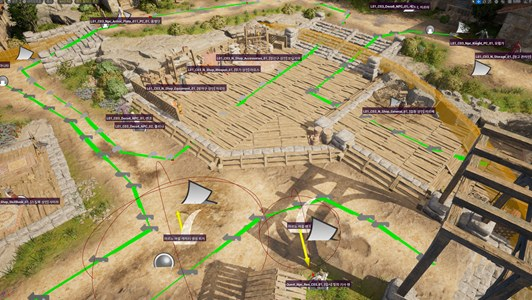
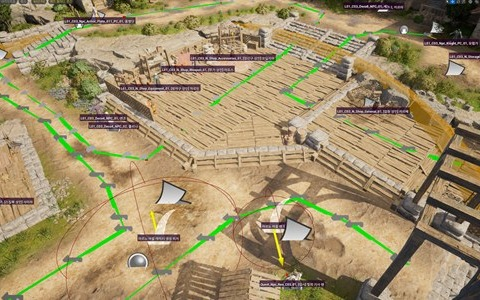
content(areatool): 레벨툴 스크린샷 3장 크기 통일(480x300) 후 페이지 상단으로 이동

diff --git a/content/projects/areatool.md b/content/projects/areatool.md
@@ -8,6 +8,12 @@ summary: "레벨 영역 저작툴, Commandlet 기반 검증 CI."
 tags: ["Editor Tooling", "AreaTool", "Geometry", "Validator", "Commandlet", "CI", "Perforce"]
 ---
 
+<div class="shot-row">
+  <figure><img src="/images/projects/areatool/areatool-patrol-spawn.jpg" alt="레벨 위에 배치된 순찰 경로와 스폰 지점" /><figcaption>레벨 위 순찰 경로 · 스폰 지점 배치</figcaption></figure>
+  <figure><img src="/images/projects/areatool/areatool-spawn-area.jpg" alt="스폰 영역과 영역 안의 NPC 스폰 지점" /><figcaption>스폰 영역과 영역 안의 NPC 스폰 지점</figcaption></figure>
+  <figure><img src="/images/projects/areatool/areatool-outliner.png" alt="AreaTool Outliner에서 rid = 1 조건으로 배치 액터 검색" /><figcaption>AreaTool Outliner — 조건 검색(rid = 1)</figcaption></figure>
+</div>
+
 ## 문제 해결 요약
 
 <div class="cases">
@@ -44,12 +50,6 @@ tags: ["Editor Tooling", "AreaTool", "Geometry", "Validator", "Commandlet", "CI"
 
 - 레벨별 구역(District)을 기획자가 직접 지정하는 2D Polygon 영역 지정 Mode 제공
 - <strong>AreaTool Outliner</strong>에서 `rid = 1`처럼 조건으로 배치 액터 검색 → 넓은 맵에서도 대상 액터를 바로 찾아 수정
-
-<div class="shot-row">
-  <figure><img src="/images/projects/areatool/areatool-patrol-spawn.jpg" alt="레벨 위에 배치된 순찰 경로와 스폰 지점" /><figcaption>레벨 위 순찰 경로 · 스폰 지점 배치</figcaption></figure>
-  <figure><img src="/images/projects/areatool/areatool-spawn-area.jpg" alt="스폰 영역과 영역 안의 NPC 스폰 지점" /><figcaption>스폰 영역과 영역 안의 NPC 스폰 지점</figcaption></figure>
-  <figure><img src="/images/projects/areatool/areatool-outliner.png" alt="AreaTool Outliner에서 rid = 1 조건으로 배치 액터 검색" /><figcaption>AreaTool Outliner — 조건 검색(rid = 1)</figcaption></figure>
-</div>
 
 - <strong>에디터 3D 시각화 — CylinderComponent · DrawMesh</strong>
   - 스폰 반경 · 순찰 영역을 뷰포트에서 확인하도록 `FPrimitiveSceneProxy` 기반 커스텀 실린더 컴포넌트와 `FComponentVisualizer` 구현
@@ -172,7 +172,6 @@ tags: ["Editor Tooling", "AreaTool", "Geometry", "Validator", "Commandlet", "CI"
     // 교차점 → InverseTransformPosition → Point3D.Insert(LocalPos, CurrentIdx + 1)
     ```
 
-
 - <strong>스폰 프리뷰 기준점 — 다각형 무게중심</strong>
   - 스폰 그룹 프리뷰 메시를 Territory 중앙에 두기 위해 면적 기준 무게중심 계산
   - 꼭짓점 평균과 달리 오목 다각형에서도 면적 분포를 반영한 중심을 얻음
@@ -203,76 +202,16 @@ tags: ["Editor Tooling", "AreaTool", "Geometry", "Validator", "Commandlet", "CI"
 
 - export 직전 액터마다 검증자 체인을 통과시키고, 실패한 액터는 제외 후 경고 → Commandlet CI도 같은 경로로 검사
 - <strong>인터페이스 하나 + Generator별 조합</strong>
-  - 모든 검증자가 `IAreaToolValidator`를 구현하고, Generator마다 필요한 검증자만 등록 (이름 중복 검사는 기본 포함)
-- <strong>검증 규칙</strong>
-  - 이름 중복 · 지정 폴더(`Design/Level/` · `Design/Quest/`) 하위 여부 · 리전 메타데이터 존재 · 텔레포트 확률 혼용 · NavMesh 투영(경고만)
-- <strong>폴더 구조로 리전 판별</strong>
-  - Outliner 폴더 경로 `Design/Level/<리전>` 에서 정규식으로 리전 이름을 잘라 메타데이터와 대조, 리전별 export 파일 분리 기준으로도 사용
-
-    ```cpp
-    // AreaToolActor.cpp — "Root/Depth/Design/Level/INSRegion/District_A/MonsterA" → "INSRegion"
-    FString AAreaToolActor::GetInsRegionName(FString FolderPath)
-    {
-        // 접두사 정규식: "Design/Level/|Design/Quest/"
-        FRegexPattern PrefixRegexPattern(TEXT("^.*?" + PrefixsRegex));
-        FRegexMatcher PrefixMatcher(PrefixRegexPattern, FolderPath);
-
-        FString TrimmedPath = FolderPath;
-        if (PrefixMatcher.FindNext())                     // 처음부터 접두사 끝까지 제거
-            TrimmedPath = FolderPath.RightChop(PrefixMatcher.GetMatchEnding());
-
-        FRegexMatcher SlashMatcher(FRegexPattern(TEXT("/.*$")), TrimmedPath);
-        if (SlashMatcher.FindNext())                      // 첫 '/'부터 끝까지 제거
-            TrimmedPath = TrimmedPath.Left(SlashMatcher.GetMatchBeginning());
-
-        return TrimmedPath;
-    }
-    ```
-
-- <strong>경고에서 바로 액터로 이동</strong>
-  - 실패 내용을 메시지 로그에 액터 링크(`FUObjectToken`)로 남겨 클릭 시 해당 액터 선택, 일괄 export에서는 팝업 없이 로그만 기록
 
 ### Export + 소스 컨트롤 연동
 
 <img class="diagram" src="/images/diagrams/areatool-reconcile.svg" alt="AreaTool Export의 SaveAndReconcile 흐름: Export 결과(파일 경로별 JSON 배열)를 파일마다 기존 파일 문자열과 비교해, 동일하면 건너뛰고(체크아웃 · 저장 없음), 내용이 바뀌었으면 FCheckOut 후 저장, 새 파일이면 저장 후 FMarkForAdd. 기존 Level/ · Region/ 하위 json 중 이번 Export에 없는 파일은 FDelete로 삭제" />
 
-- export 결과를 통째로 저장하면 바뀌지 않은 파일까지 체크아웃되고, 레벨에서 지운 액터의 파일은 그대로 남음
 - export 결과와 디스크의 기존 파일을 직접 비교해, 달라진 파일에만 소스 컨트롤 작업 수행 (`FAreaToolJsonGenerator::SaveAndReconcile`)
 - <strong>파일 단위 reconcile</strong>
-  - export 결과는 액터마다 정해진 파일 경로로 묶인 JSON 배열
-  - 기존 파일과 문자열로 비교해 동일 · 변경 · 신규로 분류, 비교에 쓰이지 않고 남은 기존 파일은 삭제 대상
-
-    ```cpp
-    // AreaToolGenerator.cpp — FAreaToolJsonGenerator::SaveAndReconcile
-    for (const auto& [RelPath, JsonArray] : ExportedFileDatas)
-    {
-        const FString FilePath = FPaths::ConvertRelativePathToFull(DIR_METADATA_FOR_SERVER, RelPath);
-        FString ExportedJsonString;
-        FJsonSerializer::Serialize(JsonArray, TJsonWriterFactory<>::Create(&ExportedJsonString));
-
-        CurrExistDataFiles.Remove(FilePath);           // 남는 파일 = 이번 Export에 없는 파일
-        if (FileManager.FileExists(*FilePath))
-        {
-            FString Existing;
-            if (FFileHelper::LoadFileToString(Existing, *FilePath) && Existing == ExportedJsonString)
-                continue;                              // 동일 → 체크아웃하지 않음
-            EditFiles.Add(FilePath);
-        }
-        else AddedFiles.Add(FilePath);
-        DatasToSave.Add(FilePath, ExportedJsonString);
-    }
-    // FDelete(CurrExistDataFiles) → FCheckOut(EditFiles) → 저장 → FMarkForAdd(AddedFiles)
-    ```
-
-- <strong>GUID 정렬 기반 직렬화 순서 고정</strong>
-  - 문자열 비교가 의미 있으려면 직렬화 순서가 매번 같아야 함
-  - export 전에 액터를 GUID 순으로 정렬, DataAsset도 GUID 키 순으로 정렬해 저장
 - <strong>JSON · DataAsset 두 경로</strong>
   - JSON은 서버용 생성 데이터 폴더(`GeneratedData_Server`)에 저장
   - 클라이언트용 데이터는 `FAreaToolAssetGenerator<TargetActor, TargetAssetSet>` 템플릿으로 `/Game/GameAsset/Area/<레벨>/` 아래 DataAsset으로 저장
-  - DataAsset도 기존 에셋을 JSON 문자열로 바꿔 비교한 뒤 변경분만 체크아웃 · 추가, 사라진 에셋은 삭제
-- <strong>메타데이터에 없는 리전 파일 정리</strong>
-  - 전체 레벨 export 후 `CleanUp()`이 Region 메타데이터에 없는 리전 이름의 파일을 소스 컨트롤에서 삭제
 - export 결과는 런타임 메타데이터로 사용 → [메타데이터 파이프라인 페이지](/projects/metadata-pipeline/)
 
 ### Commandlet 기반 CI
@@ -280,12 +219,7 @@ tags: ["Editor Tooling", "AreaTool", "Geometry", "Validator", "Commandlet", "CI"
 - export를 사람이 에디터에서 레벨마다 실행하면 빠지는 레벨이 생길 수 있음
 - 에디터 UI 없이 Commandlet으로 전체 레벨의 검증 · export를 실행하고 Jenkins CI에 연동
 - 사람 실수와 무관하게 빌드 단계에서 데이터 검증 · 생성 보장
-- <strong>`UAreaToolExportCommandlet` → `ExportAllLevels()`</strong>
-  - Commandlet은 `UAreaToolSubsystem::ExportAllLevels()`만 호출
-  - Region 메타데이터에 등록된 레벨 목록을 돌며 레벨 로드 → 검증 · export 반복, 마지막에 `CleanUp()`
-  - 에디터 메뉴의 전체 export도 같은 함수 사용
 - <strong>헤드리스에서도 에디터와 같은 상태로 레벨 로드</strong>
-  - 맵만 열면 World Partition 셀 · 데이터 레이어 · NavMesh가 로드되지 않아 배치 액터 수집과 NavMesh 검증이 동작하지 않음
   - 레벨마다 내비게이션 시스템 추가 → 기획 배치용 데이터 레이어(`DL_Design`) 로드 → 월드 전체 범위 로드
 
     ```cpp
@@ -305,10 +239,3 @@ tags: ["Editor Tooling", "AreaTool", "Geometry", "Validator", "Commandlet", "CI"
     }
     ```
 
-- <strong>Slate 없는 환경 대응</strong>
-  - 디버그 입력 처리기는 `!IsRunningCommandlet() && FSlateApplication::IsInitialized()`일 때만 등록
-  - Commandlet 경로에서는 경고 팝업을 띄우지 않음
-- <strong>레벨 데이터 빌더 Commandlet에 통합</strong>
-  - NavMesh · Landscape 등을 굽는 팀 공용 `SolLevelDataBuilderCommandlet`에 빌더 팩토리(`USolLevelDataBuilderFactory`)를 추가해, 명령줄 스위치 이름으로 실행할 빌더 선택
-  - AreaTool은 `-AreaToolData` 스위치로 레벨마다 export, 모든 맵 처리 후 팩토리 `CleanUp()` 한 번 호출
-  - Jenkins 파이프라인이 이 Commandlet을 `-AreaToolData`와 함께 호출
